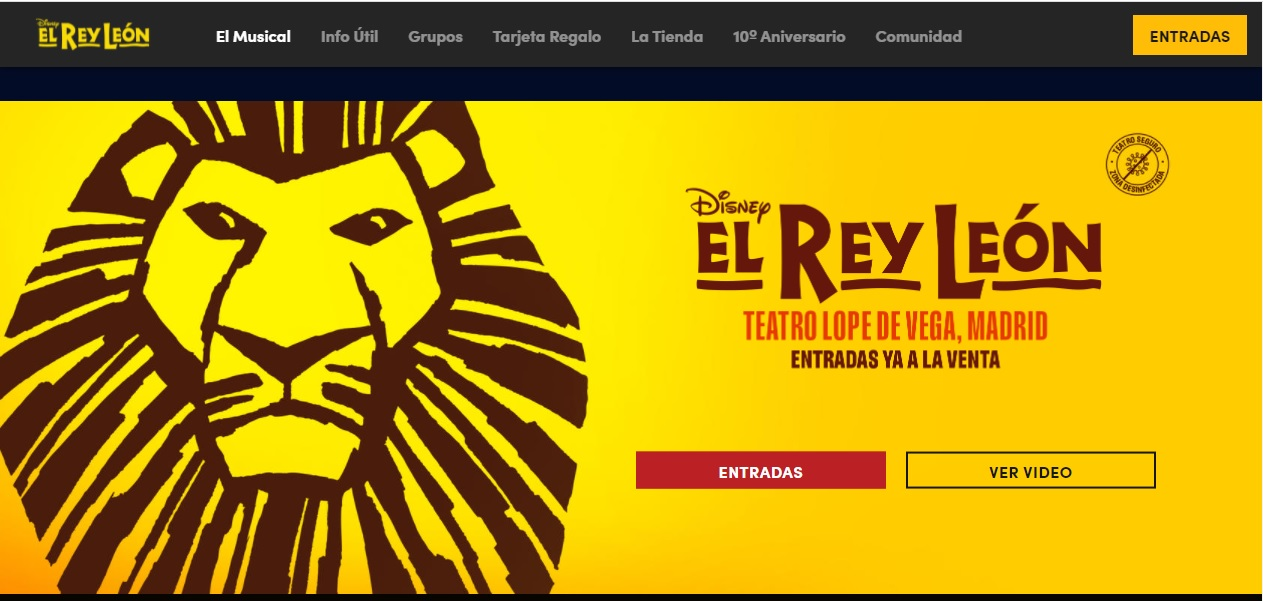
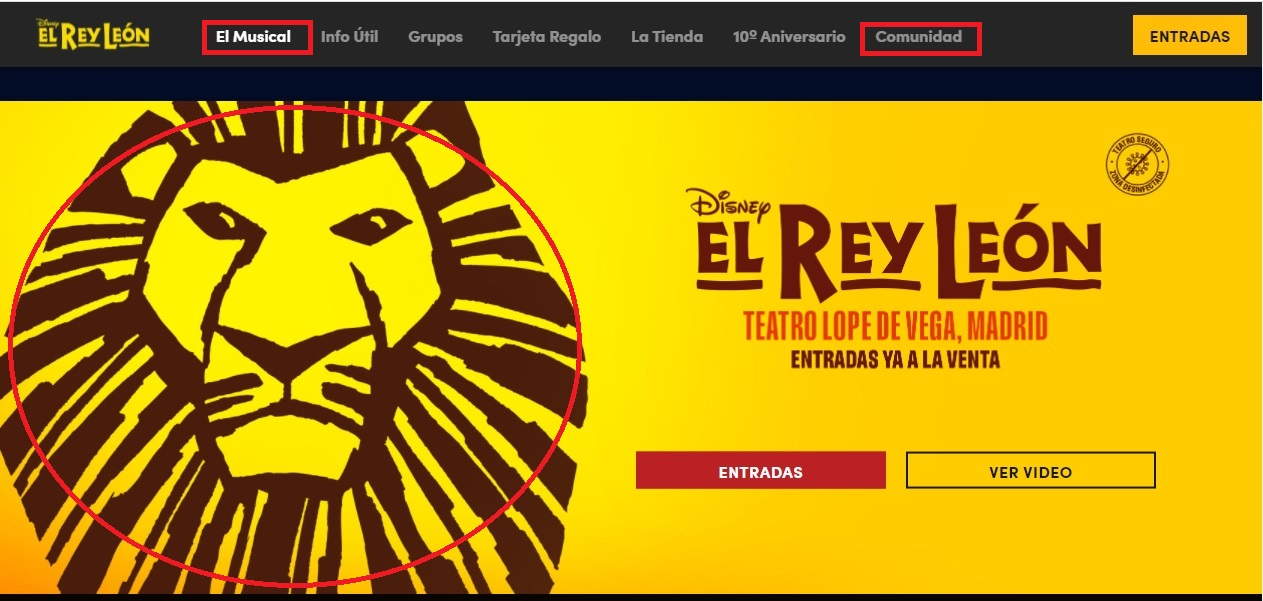
se termina ejercicio de frutas
- se realiza update de fruta.html
- se termina la config de css

diff --git a/UT1-LM/practica-FrutasTropicales/frutas.html b/UT1-LM/practica-FrutasTropicales/frutas.html
@@ -1,0 +1,128 @@
+<!DOCTYPE html>
+<html lang="en">
+
+<head>
+    <meta charset="UTF-8">
+    <meta name="viewport" content="width=device-width, initial-scale=1.0">
+    <link rel="stylesheet" href="estilos.css">
+    <title>Frutas Tropicales</title>
+</head>
+
+<body>
+    <header>
+        <h2>Frutas Tropicales</h2>
+        <p></p>
+    </header>
+    <main>
+        <section>
+            <h3>Mango</h3>
+            <article>
+                <figure>
+                    <img src="./img/mango.png" alt="mango" title="mango">
+                </figure>
+                <div>
+
+                    <p>El mango es una fruta tropical que proviene del árbol Mangifera indica. Esta fruta cítrica tiene
+                        una
+                        pulpa
+                        carnosa y dulce que puede ser fibrosa o más esponjosa. El mango puede variar en tamaño, desde 4
+                        hasta 25
+                        cm de largo, y puede pesar hasta 2 kg. Su color puede variar desde verde hasta amarillo,
+                        naranja,
+                        rojo
+                        granate y tonos intermedios, dependiendo de la variedad.</p>
+                    <h3>Beneficios del Mango</h3>
+                    <ul>
+                        <li>Aporta pocas calorías, ya que se estima que contiene unas 60 calorías cada 100 gr de mango.
+                        </li>
+                        <li>Es rico en oligoelementos como potasio, hierro, cobre, calcio, magnesio y fósforo.</li>
+                        <li>Aporta una gran cantidad de fibra, beneficiosa para el tracto digestivo.</li>
+                        <li>Es rico en betacarotenos útiles para la piel y la vista.</li>
+                        <li>Posee un alto contenido de vitamina C, lo cual le infiere un gran poder antioxidante.</li>
+                    </ul>
+                    </div>
+            </article>
+        </section>
+        <section>
+            <h3>Papaya</h3>
+            <article>
+                <figure id="fig-papaya">
+
+                    <img src="./img/papaya.png" alt="papaya" title="papaya">
+                </figure>
+                <div id="text-papaya">
+                    <p>La papaya es una fruta carnosa y suave con grandes propiedades debido a la gran cantidad de
+                        enzimas y
+                        vitaminas que posee su pulpa. Esta fruta crece con facilidad en climas tropicales y es conocida
+                        a
+                        nivel
+                        científico como Carica papaya perteneciente taxonómicamente a la familia Caricaceae. La papaya
+                        puede
+                        consumirse en trozos, jugos, batidos, ensaladas, dulces salsas y aderezos.</p>
+                    <h3>Beneficios de la Papaya</h3>
+                    <ul>
+                        <li>Su alto contenido en fibra evita el estreñimiento y la enzima proteolítica denominada
+                            papaína
+                            contribuye a la degradación de los alimentos y facilita la digestión.</li>
+                        <li>Su alto contenido de vitaminas ayuda a fortalecer el sistema inmunológico.</li>
+                        <li>El Betacaroteno (potente antioxidante) que contiene la pulpa de papaya ayuda en la
+                            protección de
+                            las
+                            células, previene el asma y disminuye el riesgo de cáncer.</li>
+                        <li>El flavonoide protege de la oxidación de LDL (lipoproteínas de baja densidad conocido
+                            comúnmente
+                            como colesterol malo) previniendo así riesgo de enfermedades cardiovasculares.</li>
+                        <li>Los metabolitos de su contenido (sodio, potasio, magnesio, calcio y fósforo) ayudan a
+                            mantener
+                            el
+                            equilibrio ácido-base del organismo.</li>
+                        <li>Las semillas de la papaya pueden actuar como antiparasitario específicamente contra Ascaris
+                            lumbricoides, Strongyloides, Ancylostomas y Trichuris.</li>
+                        <li>El complejo de vitaminas B regulan el músculo cardiaco y fortalecen el sistema nervioso.
+                        </li>
+                    </ul>
+                </div>
+            </article>
+        </section>
+        <section>
+            <h3>Piña</h3>
+            <article>
+                <figure>
+                    <img src="./img/piña.png" alt="piña" title="piña">
+                </figure>
+
+                <div>
+                    <p>La piña es una fruta tropical de gran valor gastronómico y medicinal conocida científicamente
+                        como
+                        Ananas
+                        comosus. Esta fruta tiene forma cónica u ovalada, la piel asemeja una superficie rugosa que
+                        rodea la
+                        pulpa carnosa, jugosa y aromática que puede ser amarilla o blanca dependiendo de la madurez del
+                        fruto.
+                        En la parte superior la piña tiene una roseta de hojas en forma de corona.</p>
+                    <h3>Beneficios de la Piña</h3>
+                    <ul>
+                        <li>Su contenido en manganeso ayuda a fortalecer el sistema inmunológico y el sistema óseo.</li>
+                        <li>La enzima bromelina ayuda con la metabolización de los alimentos a nivel digestivo.</li>
+                        <li>Su alto contenido de Vitamina A, C y ácido fólico ayuda a combatir resfriados, bronquitis y
+                            asma.
+                        </li>
+                        <li>La piña es indicada para ayudar en enfermedades como artritis, la gota, reumatismos y
+                            arteriosclerosis.</li>
+                        <li>Los minerales como magnesio, zinc, hierro y yodo actúan como antioxidantes retrasando en
+                            envejecimiento.</li>
+                        <li>El sodio y potasio ayudan a mejorar el sistema cardiovascular a través de la reducción y
+                            normalización de los niveles de tensión arterial. Además, actúa como diurético.</li>
+                        <li>El contenido de la fibra en la pulpa de la piña y su acción saciante ayuda como coadyuvante
+                            en
+                            regímenes de adelgazamiento.</li>
+                        </ul>
+                </div>
+            </article>
+        </section>
+
+    </main>
+
+</body>
+
+</html>

diff --git a/UT1-LM/practica-FrutasTropicales/estilos.css b/UT1-LM/practica-FrutasTropicales/estilos.css
@@ -1,0 +1,60 @@
+body{
+    background-color: #F5F5F5;
+    font-family: 'Roboto', sans-serif;
+    font-size: 16px;
+    color: #333;
+    margin: 0;
+    padding: 0;
+}
+
+header{
+    background-color: #333;
+    color: #fff;
+    padding: 5px;
+    text-align: center;
+}
+
+main{
+    width: 100%;
+    margin: auto;
+    height: 100%;
+}
+section{
+    width: 70%;
+    margin: auto;
+    height:200px;
+    background-color: chocolate;
+}
+article{
+    width: 100%;
+    height:150px;
+    font-size: 0.5em;
+    border: 1px solid #6413c6;
+
+}
+figure{
+    width: 30%;
+    height:120px;
+    border: 5px solid #79cf09;
+    display: inline-block;
+    margin: 2px;
+    margin-top: 2px;
+}
+img{
+    width: 100%;
+    height: 100%;
+    border: 2px solid #333;
+}
+div{
+    width: 60%;
+    height:120px;
+    border: 5px solid #2d06ef;
+    display: inline-block;
+    text-align: justify;
+}
+#fig-papaya{
+    display: inline-block;
+}
+#text-papaya{
+    float: left;
+}

diff --git a/UT1-LM/practica-ReyLeon/mapaImagen.html b/UT1-LM/practica-ReyLeon/mapaImagen.html
@@ -8,12 +8,12 @@
 </head>
 <body>
     <figure>
-        <img src="./imagenes/fondo2.jpg" alt="rey-leon" title="img-reyleon" usemap="#leon">
-        <area shape="rect1" coords="" href="" alt="musical" title="musical">
-        <area shape="rect2" coords="" href="" alt="comunidad" title="comunidad">
-        <area shape="" coords="" href="" alt="">
+        <img src="./imagenes/rey leon.jpg" alt="rey-leon" title="img-reyleon" usemap="#leon">
     </figure>
     <map name="leon">
+        <area shape="rect1" coords="205,24,308,50" href="https://www.stage.es/musicales/el-rey-leon/o/b" alt="musical" title="musical">
+        <area shape="rect2" coords="862,23,978,51" href="https://latiendadelosmusicales.es/el-rey-leon-o-b/" alt="tienda" title="tienda">
+        <area shape="circle" coords="300,350,180" href="https://www.stage.es/musicales/el-rey-leon/tarjeta-regalo" alt="img-central" title="img-central">
         
     </map>
 </body>

diff --git a/UT1-LM/practica-Numeros/enlaces.html b/UT1-LM/practica-Numeros/enlaces.html
@@ -10,9 +10,9 @@
 <body>
     <h1>Elija uno de los Enlaces</h1>
     <br>
-    <p><a href=""></a> Encuestas</p>
-    <p><a href="soledades.html" ></a> Soledades</p>
-    <p><a href="numeros.html#n50" ></a> numero 50</p>
+    <p><a href=""> ir a la encuesta</a> </p>
+    <p><a href="soledades.html" >Soledades</a></p>
+    <p><a href="numeros.html#n50" >Ir al numero 50</a> </p>
 
 
     

diff --git a/UT1-LM/practica-Numeros/soledades.html b/UT1-LM/practica-Numeros/soledades.html
@@ -10,7 +10,8 @@
 <body>
     <h1>SOLEDADES</h1>
 <p>Poema</p>
-    Yo voy soñando caminos
+<p>
+ Yo voy soñando caminos
 de la tarde. ¡Las colinas
 doradas, los verdes pinos,
 las polvorientas encinas!…
@@ -39,5 +40,6 @@ Mi cantar vuelve a plañir:
 “Aguda espina dorada,
 quién te pudiera sentir
 en el corazón clavada.”
+</p>
 </body>
 </html>
